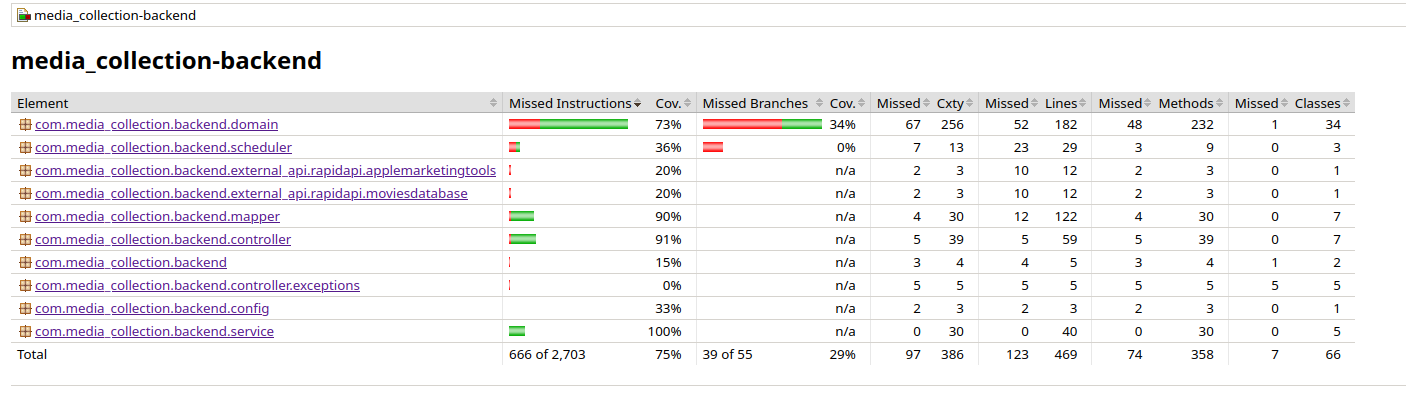
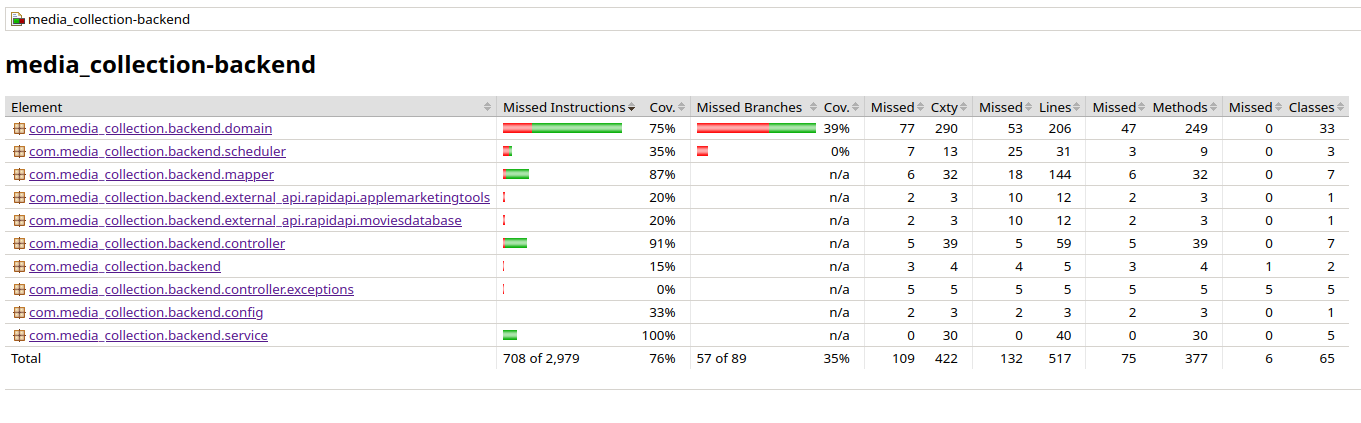
media collection 1.0

Changed region(s): [[0.0, 0.2054, 1.0, 0.8802], [0.0, 0.0, 1.0, 0.088], [0.0, 0.1174, 0.2469, 0.176]]

diff --git a/src/test/java/com/media_collection/backend/service/CascadeTest.java b/src/test/java/com/media_collection/backend/service/CascadeTest.java
@@ -3,13 +3,15 @@ package com.media_collection.backend.service;
 import com.media_collection.backend.controller.exceptions.*;
 import com.media_collection.backend.domain.*;
 import com.media_collection.backend.repository.*;
+import org.junit.jupiter.api.AfterEach;
 import org.junit.jupiter.api.Test;
 import org.springframework.beans.factory.annotation.Autowired;
 import org.springframework.boot.test.context.SpringBootTest;
-import org.springframework.transaction.annotation.Transactional;
+
 
 import static org.junit.jupiter.api.Assertions.assertEquals;
-@Transactional
+
+
 @SpringBootTest
 public class CascadeTest {
     @Autowired
@@ -42,18 +44,27 @@ public class CascadeTest {
     @Autowired
     UserService userService;
 
+    @AfterEach
+    public void afterEachTest(){
+        songRepository.deleteAll();
+        songCollectionRepository.deleteAll();
+        movieRepository.deleteAll();
+        movieCollectionRepository.deleteAll();
+        userRepository.deleteAll();
+    }
+
     @Test
     void cascadeDeleteSong() throws SongNotFoundException {
 
         //Given
         Song song = Song.builder()
                 .songTitle("Test song")
-                .songAuthor("a1")
+                .songAuthor("test author")
                 .songId(1L)
                 .build();
         Song song2 = Song.builder()
                 .songTitle("Test song2")
-                .songAuthor("a2")
+                .songAuthor("test author")
                 .songId(2L)
                 .build();
         User user = userRepository.save(User.builder().userName("Test user").build());
@@ -67,12 +78,18 @@ public class CascadeTest {
                 .build();
         Song savedSong = songService.saveSong(song);
         Song savedSong2 = songService.saveSong(song2);
-        songCollection.getSongs().add(savedSong);
-        songCollection.getSongs().add(savedSong2);
-        songCollection2.getSongs().add(savedSong);
-        songCollection2.getSongs().add(savedSong2);
+
         SongCollection songCollection1 = songCollectionService.saveSongCollection(songCollection);
         SongCollection songCollection3 = songCollectionService.saveSongCollection(songCollection2);
+
+        songCollection1.getSongs().add(savedSong);
+        songCollection1.getSongs().add(savedSong2);
+        songCollection3.getSongs().add(savedSong);
+        songCollection3.getSongs().add(savedSong2);
+
+        songCollectionService.saveSongCollection(songCollection1);
+        songCollectionService.saveSongCollection(songCollection3);
+
         //When
         songService.deleteById(savedSong.getSongId());
         //Then
@@ -87,12 +104,12 @@ public class CascadeTest {
         //Given
         Song song = Song.builder()
                 .songTitle("Test song")
-                .songAuthor("a1")
+                .songAuthor("test author")
                 .songId(1L)
                 .build();
         Song song2 = Song.builder()
                 .songTitle("Test song2")
-                .songAuthor("a2")
+                .songAuthor("test author")
                 .songId(2L)
                 .build();
         User user = userRepository.save(User.builder().userName("Test user").build());
@@ -106,14 +123,19 @@ public class CascadeTest {
                 .build();
         Song savedSong = songService.saveSong(song);
         Song savedSong2 = songService.saveSong(song2);
-        songCollection.getSongs().add(savedSong);
-        songCollection.getSongs().add(savedSong2);
-        songCollection2.getSongs().add(savedSong);
-        songCollection2.getSongs().add(savedSong2);
+
         SongCollection songCollection1 = songCollectionService.saveSongCollection(songCollection);
         SongCollection songCollection3 = songCollectionService.saveSongCollection(songCollection2);
+
+        songCollection1.getSongs().add(savedSong);
+        songCollection1.getSongs().add(savedSong2);
+        songCollection3.getSongs().add(savedSong);
+        songCollection3.getSongs().add(savedSong2);
+
+        songCollectionService.saveSongCollection(songCollection1);
+        SongCollection songCollection5 = songCollectionService.saveSongCollection(songCollection3);
         //When
-        songCollectionService.deleteById(songCollection1.getSongCollectionId());
+        songCollectionService.deleteById(songCollection5.getSongCollectionId());
         //Then
         assertEquals(2, songService.getSongs().size());
         assertEquals(1, songCollectionService.getSongCollections().size());
@@ -125,12 +147,12 @@ public class CascadeTest {
         //Given
         Song song = Song.builder()
                 .songTitle("Test song")
-                .songAuthor("a1")
+                .songAuthor("test author")
                 .songId(1L)
                 .build();
         Song song2 = Song.builder()
                 .songTitle("Test song2")
-                .songAuthor("a2")
+                .songAuthor("test author")
                 .songId(2L)
                 .build();
         User user = userRepository.save(User.builder().userName("Test user").build());
@@ -144,20 +166,25 @@ public class CascadeTest {
                 .build();
         Song savedSong = songService.saveSong(song);
         Song savedSong2 = songService.saveSong(song2);
-        songCollection.getSongs().add(savedSong);
-        songCollection.getSongs().add(savedSong2);
-        songCollection2.getSongs().add(savedSong);
-        songCollection2.getSongs().add(savedSong2);
+
         SongCollection songCollection1 = songCollectionService.saveSongCollection(songCollection);
         SongCollection songCollection3 = songCollectionService.saveSongCollection(songCollection2);
+
+        songCollection1.getSongs().add(savedSong);
+        songCollection1.getSongs().add(savedSong2);
+        songCollection3.getSongs().add(savedSong);
+        songCollection3.getSongs().add(savedSong2);
+
+        songCollectionService.saveSongCollection(songCollection1);
+        SongCollection songCollection5 = songCollectionService.saveSongCollection(songCollection3);
+
         //When
-        userService.deleteById(songCollection1.getUser().getUserId());
+        userService.deleteById(user.getUserId());
         //Then
         assertEquals(2, songService.getSongs().size());
         assertEquals(0, songCollectionService.getSongCollections().size());
         assertEquals(0, userService.getUsers().size());
     }
-
     @Test
     void cascadeDeleteMovie() throws MovieNotFoundException {
 
@@ -183,12 +210,18 @@ public class CascadeTest {
                 .build();
         Movie savedMovie = movieService.saveMovie(movie);
         Movie savedMovie2 = movieService.saveMovie(movie2);
-        movieCollection.getMovies().add(savedMovie);
-        movieCollection.getMovies().add(savedMovie2);
-        movieCollection2.getMovies().add(savedMovie);
-        movieCollection2.getMovies().add(savedMovie2);
+
         MovieCollection movieCollection1 = movieCollectionService.saveMovieCollection(movieCollection);
         MovieCollection movieCollection3 = movieCollectionService.saveMovieCollection(movieCollection2);
+
+        movieCollection1.getMovies().add(savedMovie);
+        movieCollection1.getMovies().add(savedMovie2);
+        movieCollection3.getMovies().add(savedMovie);
+        movieCollection3.getMovies().add(savedMovie2);
+
+        movieCollectionService.saveMovieCollection(movieCollection1);
+        movieCollectionService.saveMovieCollection(movieCollection3);
+
         //When
         movieService.deleteById(savedMovie.getMovieId());
         //Then
@@ -222,14 +255,19 @@ public class CascadeTest {
                 .build();
         Movie savedMovie = movieService.saveMovie(movie);
         Movie savedMovie2 = movieService.saveMovie(movie2);
-        movieCollection.getMovies().add(savedMovie);
-        movieCollection.getMovies().add(savedMovie2);
-        movieCollection2.getMovies().add(savedMovie);
-        movieCollection2.getMovies().add(savedMovie2);
+
         MovieCollection movieCollection1 = movieCollectionService.saveMovieCollection(movieCollection);
         MovieCollection movieCollection3 = movieCollectionService.saveMovieCollection(movieCollection2);
+
+        movieCollection1.getMovies().add(savedMovie);
+        movieCollection1.getMovies().add(savedMovie2);
+        movieCollection3.getMovies().add(savedMovie);
+        movieCollection3.getMovies().add(savedMovie2);
+
+        movieCollectionService.saveMovieCollection(movieCollection1);
+        MovieCollection movieCollection5 = movieCollectionService.saveMovieCollection(movieCollection3);
         //When
-        movieCollectionService.deleteById(movieCollection1.getMovieCollectionId());
+        movieCollectionService.deleteById(movieCollection5.getMovieCollectionId());
         //Then
         assertEquals(2, movieService.getMovies().size());
         assertEquals(1, movieCollectionService.getMovieCollections().size());
@@ -260,17 +298,24 @@ public class CascadeTest {
                 .build();
         Movie savedMovie = movieService.saveMovie(movie);
         Movie savedMovie2 = movieService.saveMovie(movie2);
-        movieCollection.getMovies().add(savedMovie);
-        movieCollection.getMovies().add(savedMovie2);
-        movieCollection2.getMovies().add(savedMovie);
-        movieCollection2.getMovies().add(savedMovie2);
+
         MovieCollection movieCollection1 = movieCollectionService.saveMovieCollection(movieCollection);
         MovieCollection movieCollection3 = movieCollectionService.saveMovieCollection(movieCollection2);
+
+        movieCollection1.getMovies().add(savedMovie);
+        movieCollection1.getMovies().add(savedMovie2);
+        movieCollection3.getMovies().add(savedMovie);
+        movieCollection3.getMovies().add(savedMovie2);
+
+        movieCollectionService.saveMovieCollection(movieCollection1);
+        movieCollectionService.saveMovieCollection(movieCollection3);
+
         //When
-        userService.deleteById(movieCollection1.getUser().getUserId());
+        userService.deleteById(user.getUserId());
         //Then
         assertEquals(2, movieService.getMovies().size());
         assertEquals(0, movieCollectionService.getMovieCollections().size());
         assertEquals(0, userService.getUsers().size());
     }
+
 }

diff --git a/src/main/java/com/media_collection/backend/domain/SongCollection.java b/src/main/java/com/media_collection/backend/domain/SongCollection.java
@@ -50,7 +50,6 @@ public class SongCollection {
 
     @PreRemove
     private void removeThisFromRelations() {
-        user.getSongCollections().remove(this);
         for (Song song : songs) {
             song.getSongCollections().remove(this);
         }
